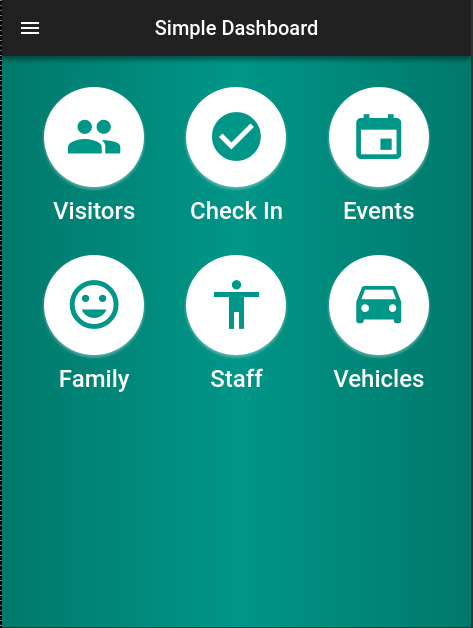
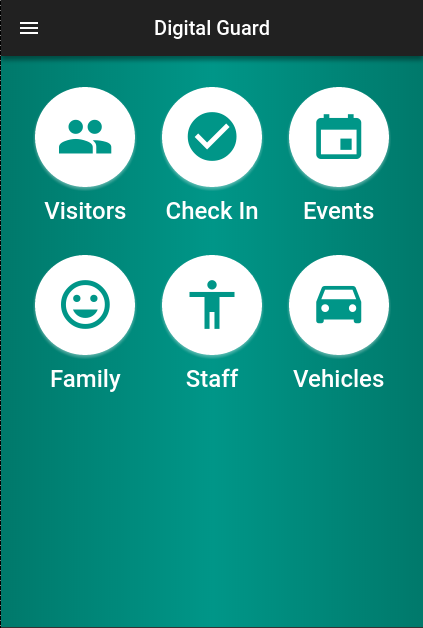
Screenshot Updated

diff --git a/gorkhaApp/app/pages/dashboard/dashboard.html b/gorkhaApp/app/pages/dashboard/dashboard.html
@@ -2,7 +2,7 @@
   <button menuToggle class="show">
     <ion-icon name='menu'></ion-icon>
   </button>
-  <ion-title class="center">Simple Dashboard</ion-title>
+  <ion-title class="center">Digital Guard</ion-title>
 </ion-navbar>
 
 <ion-content padding class="dashboard">
